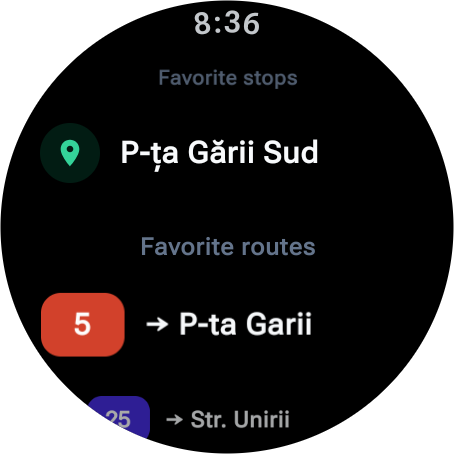
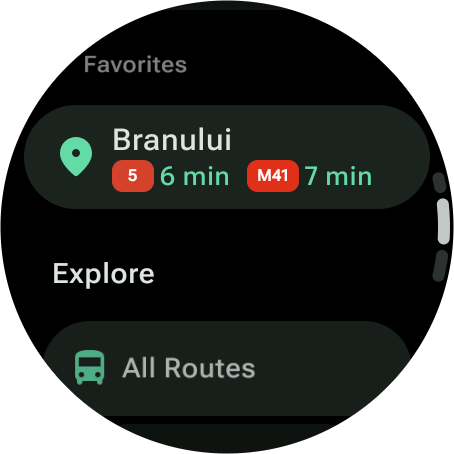
README update

diff --git a/README.md b/README.md
@@ -17,7 +17,7 @@ A live bus and tram tracker for Cluj-Napoca. I ride CTP every day and got tired 
 - Follow a line and get a notification when CTP changes its timetable or route
 - Installable as an app, with partial offline support
 - Move your favorites and settings to another phone or your watch by scanning a code
-- A Wear OS app with a tile and a complication for the next bus
+- A Wear OS app that keeps a followed bus's countdown on your watch face
 - Works from a hardware keyboard too, no arrow keys needed (hjkl and letter shortcuts)
 
 There are a few hidden things scattered around for the curious. 🐣
@@ -43,13 +43,13 @@ There are a few hidden things scattered around for the curious. 🐣
 
 ### On a watch
 
-There's a [Wear OS app](https://github.com/bmarian/conexiuni-cluj-wearos) too, with live departures, the route map, a tile, and a watch face complication that counts down to the next bus. Scan the code from Settings to bring your favorites over.
+There's a [Wear OS app](https://github.com/bmarian/conexiuni-cluj-wearos) too, with live departures and the route map. Follow a bus and the countdown stays on your watch face, with a buzz before it comes. Scan the code from Settings to bring your favorites over.
 
 <p align="center">
   <img src="readme/wearos-home.png" width="180" alt="Favorite stops and routes on the watch">
   <img src="readme/wearos-stop.png" width="180" alt="Departures from a stop">
   <img src="readme/wearos-route-map.png" width="180" alt="A line on the map with the next arrival above each stop">
-  <img src="readme/wearos-tile.png" width="180" alt="The tile with the next departures">
+  <img src="readme/wearos-departure.png" width="180" alt="One departure, with the button to follow it">
 </p>
 
 Other watches can still open the site in their browser, which offers a simplified layout.
